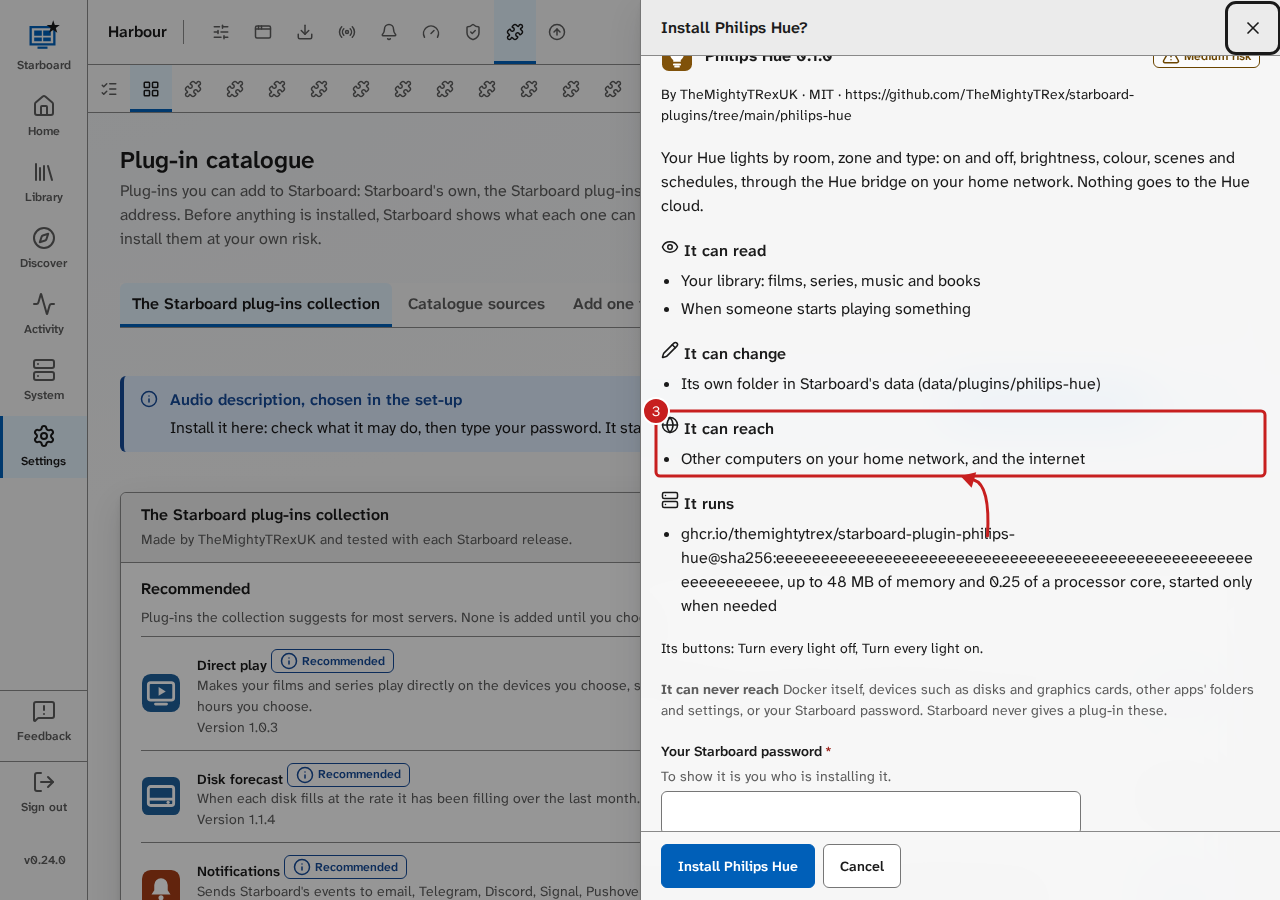
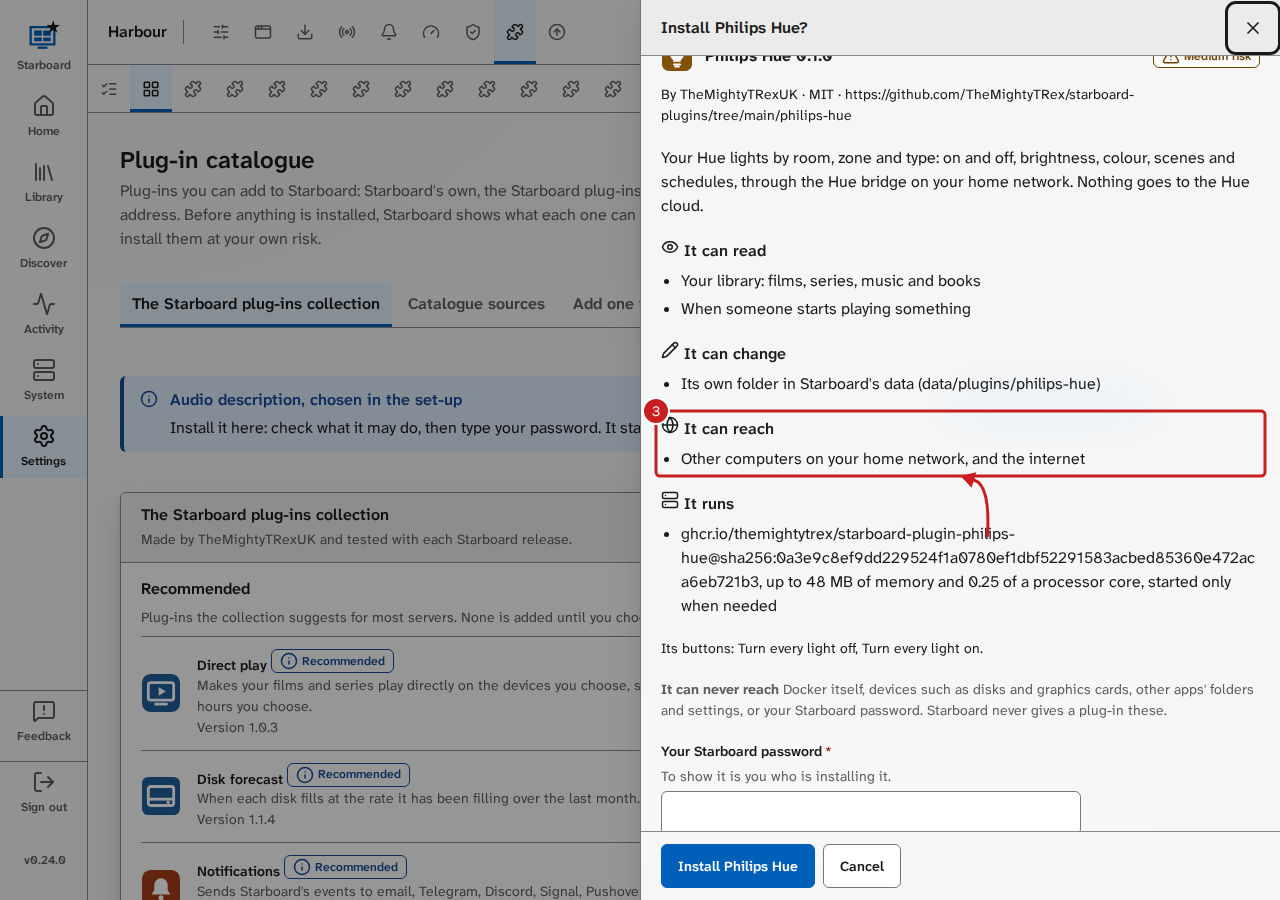
Retake two Philips Hue help pictures with the real image digest
Philips Hue is now published with its image pinned by digest, so the help
picture example server no longer fakes it as published or makes up a digest.
It now stops if a plug-in is not published or its image is not pinned.
add-2-what-it-may-do.png and add-3-password.png retaken against Starboard
origin/main; they show the real digest under "It runs".

Changed region(s): [[0.5312, 0.5911, 0.9688, 0.6533]]

diff --git a/tools/help_screenshots/example_server.py b/tools/help_screenshots/example_server.py
@@ -4,7 +4,7 @@ the plug-ins' real manifests, for the plug-ins help pictures (tools/help-screens
 
     python3 tools/help_screenshots/example_server.py <starboard checkout> <data folder> <port> [absent|present] [plug-in]
 
-The plug-in is library-cleanup unless named, and the Catalogue lists it as published even before it is. With
+The plug-in is library-cleanup unless named, and must be published, with its image pinned by digest. With
 "absent", it is not added, so the Catalogue offers it and Install...
 shows what it may do. Otherwise it is added and active. Library clean-up has made-up Preview, Holding folder, Libraries
 and card answers; any other plug-in is only added (enough for Add a card), and its container is never started.
@@ -25,11 +25,11 @@ from starboard import plugin_cards, plugin_custom, plugin_logo, plugin_watch, pl
 
 CATALOGUE = json.loads((HERE / "catalogue.json").read_text())
 MANIFEST = json.loads((HERE / PLUGIN / "starboard-plugin.json").read_text())
-# As published: an image pinned by digest. One GitHub has not built yet gets a made-up digest (e…e) here.
-PINNED = json.loads(json.dumps(MANIFEST))
-for _c in PINNED.get("containers", []):
-    if _c.get("image") and "@sha256:" not in _c["image"]:
-        _c["image"] = _c["image"].split(":")[0] + "@sha256:" + "e" * 64
+# As published: the catalogue entry and the image pinned by digest are the real ones, nothing is made up.
+if not next((e for e in CATALOGUE["plugins"] if e["id"] == PLUGIN), {}).get("published"):
+    sys.exit(f"{PLUGIN} is not published in catalogue.json yet: publish it before taking its help pictures")
+if any(c.get("image") and "@sha256:" not in c["image"] for c in MANIFEST.get("containers", [])):
+    sys.exit(f"{PLUGIN}/starboard-plugin.json has an image not pinned by digest")
 _real_catalogue, _real_manifest = plugins_admin.fetch_catalogue, plugins_admin.fetch_manifest
 
 
@@ -37,14 +37,13 @@ def catalogue(address, opener=None):
     """The collection's own catalogue, as Starboard reads it from GitHub."""
     if address == plugins_admin.CATALOGUE_URL:
         return {"name": CATALOGUE.get("name") or "Starboard plug-ins",
-                "items": [x for x in map(plugins_admin._clean_entry, [{**e, "published": True} if e["id"] == PLUGIN else e
-                                                                      for e in CATALOGUE["plugins"]]) if x]}
+                "items": [x for x in map(plugins_admin._clean_entry, CATALOGUE["plugins"]) if x]}
     return _real_catalogue(address, opener)
 
 
 def manifest(address, opener=None, sha256=""):
     if f"/{PLUGIN}/" in str(address):
-        return json.loads(json.dumps(PINNED))
+        return json.loads(json.dumps(MANIFEST))
     return _real_manifest(address, opener) if not sha256 else _real_manifest(address, opener, sha256)
 
 
@@ -93,7 +92,7 @@ def cleanup(data_dir):
     if absent:
         return
     if not any(p["id"] == PLUGIN for p in plugins_admin.listing(data_dir)):
-        plugins_admin.install(data_dir, json.loads(json.dumps(PINNED)), "/nonexistent-media")
+        plugins_admin.install(data_dir, json.loads(json.dumps(MANIFEST)), "/nonexistent-media")
         plugins_admin.keep_logo(data_dir, PLUGIN, plugin_logo.clean((HERE / PLUGIN / "logo.svg").read_bytes(), "logo.svg"))
         plugins_admin.set_state(data_dir, PLUGIN, "enabled")
     if PLUGIN != "library-cleanup":
